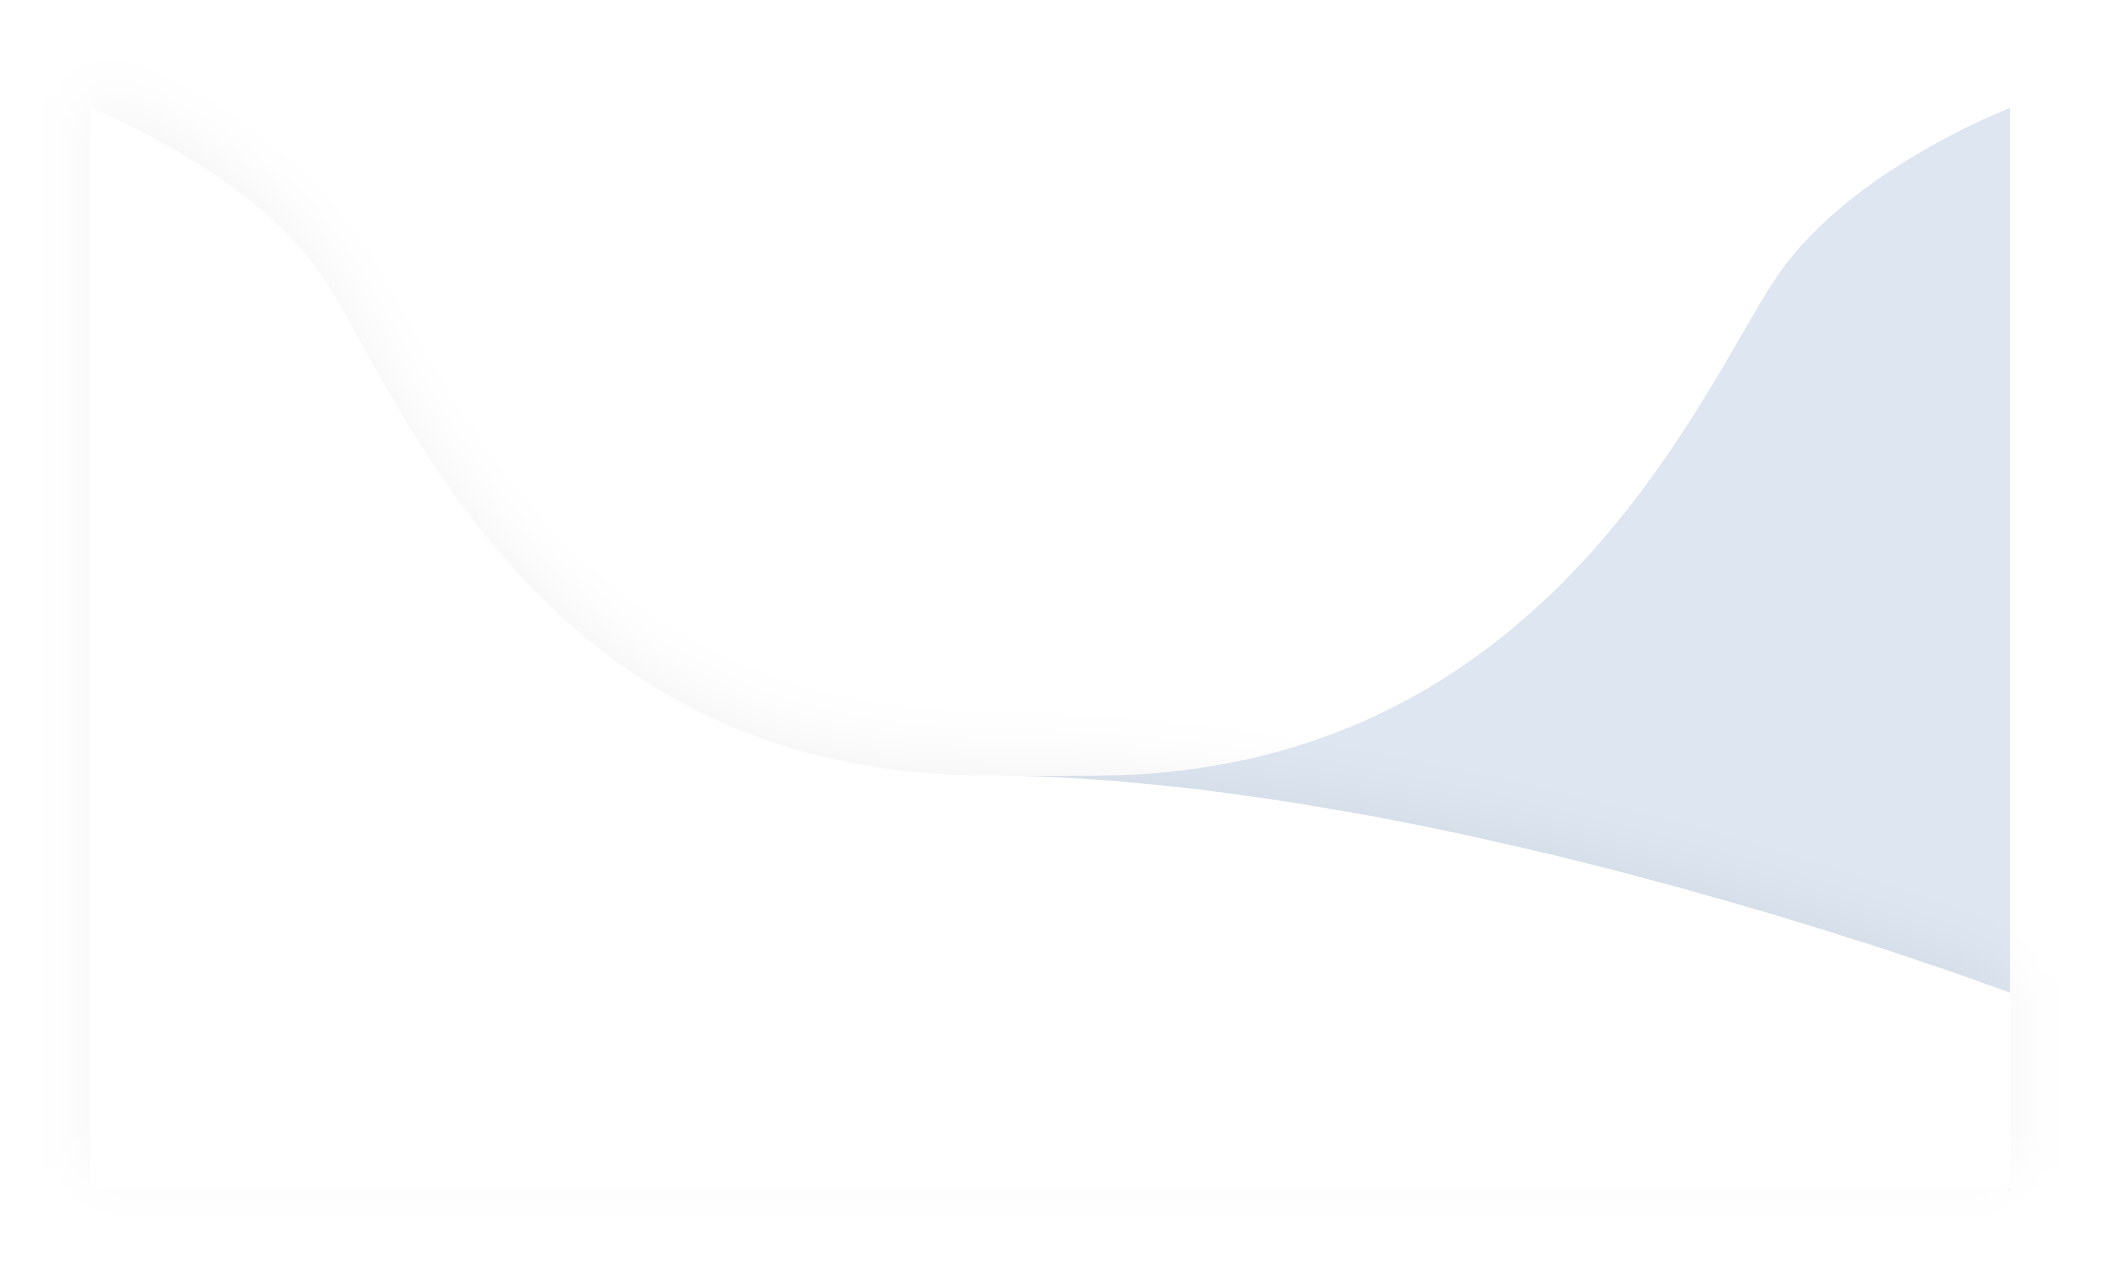
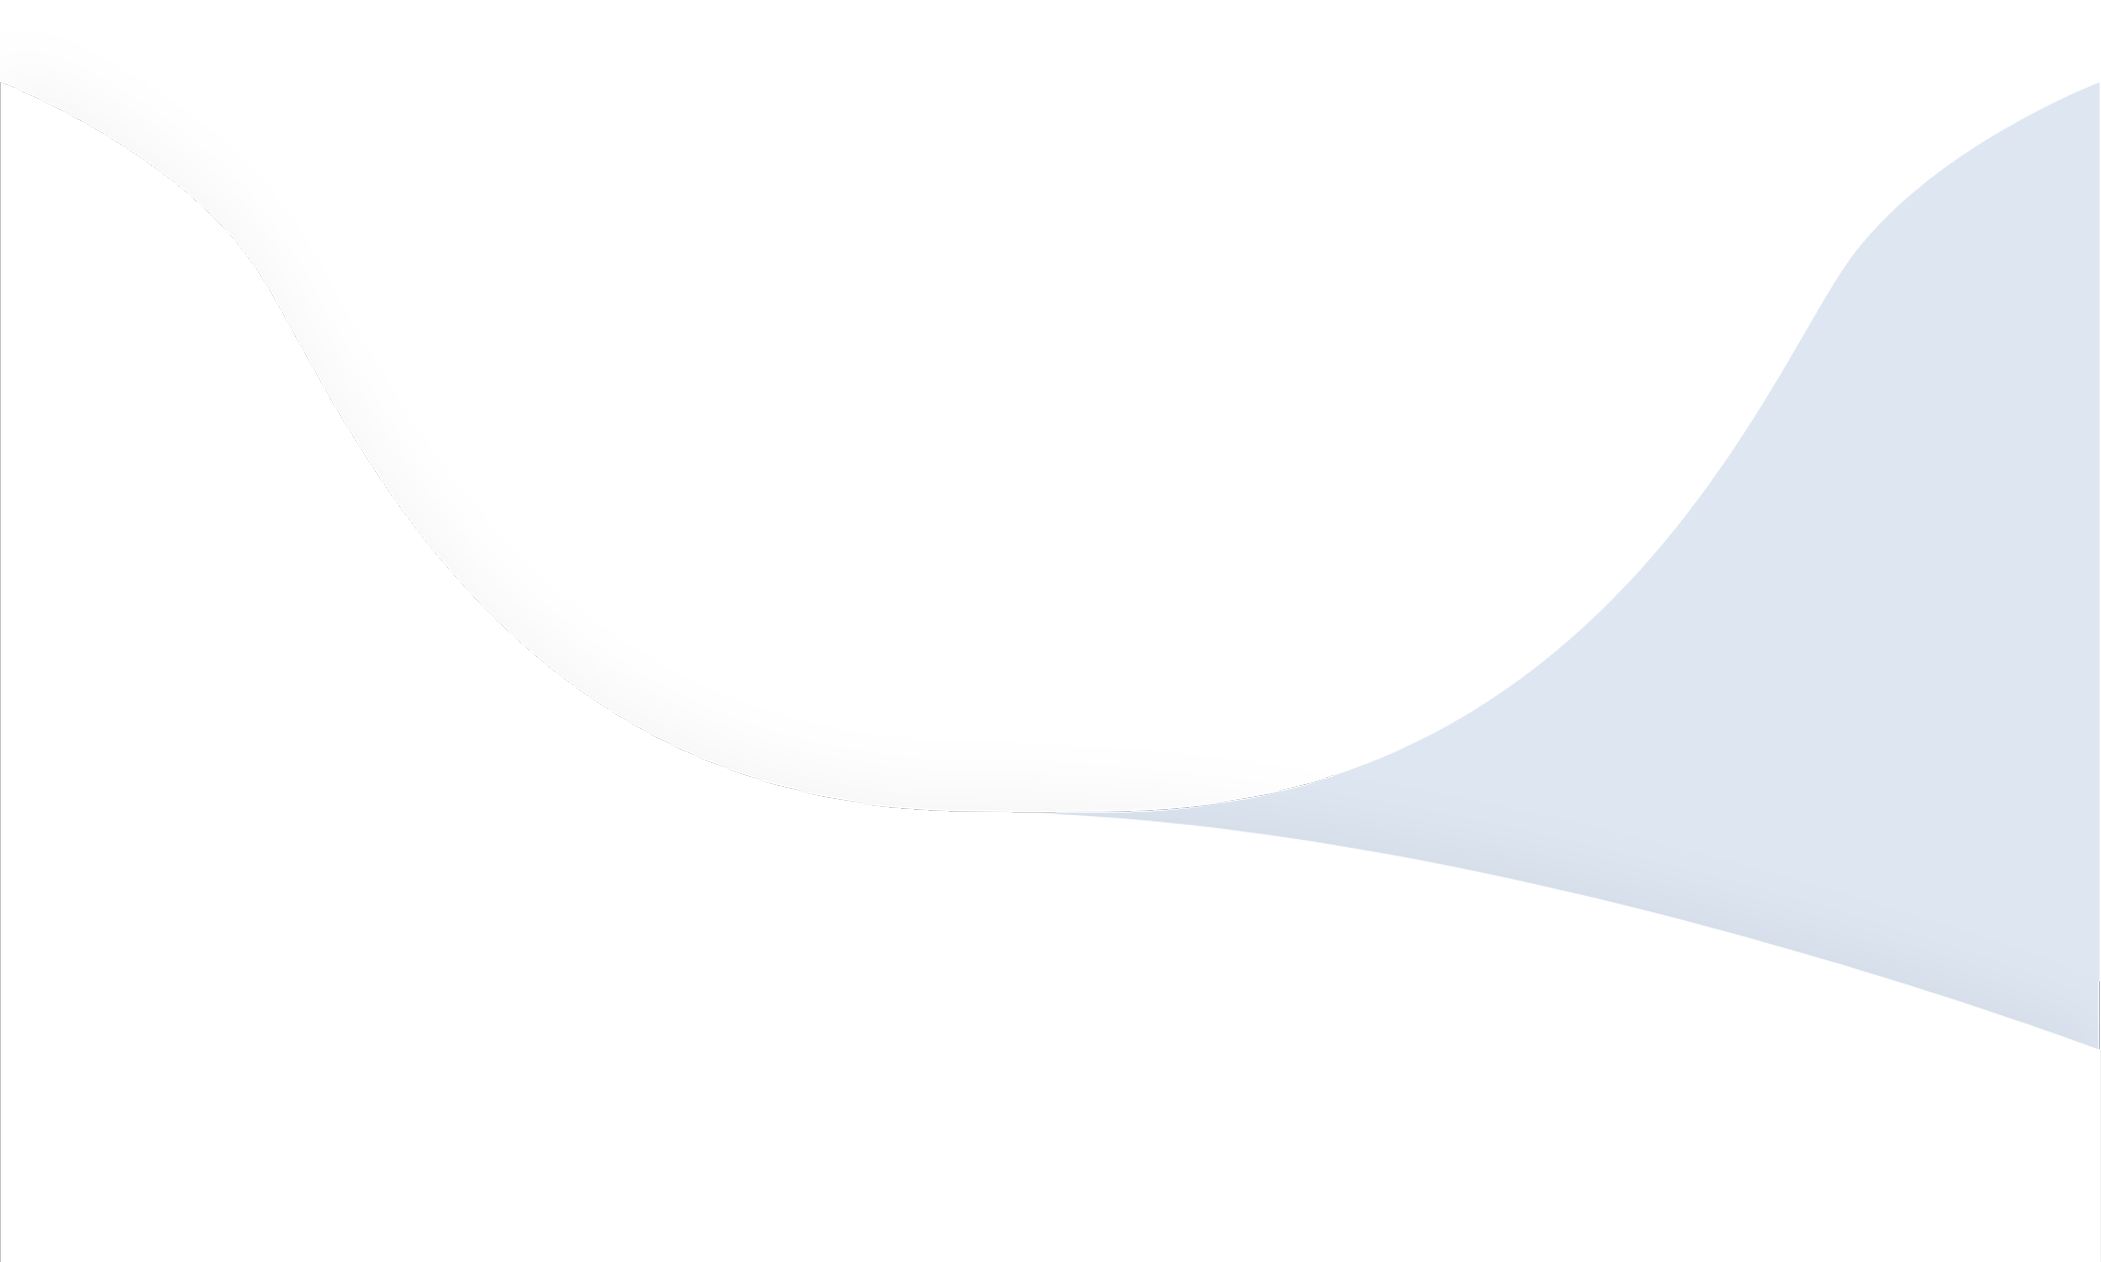
updated path

Changed region(s): [[0.5259, 0.0618, 1.0, 0.8344]]

diff --git a/css/master.css b/css/master.css
@@ -1,6 +1,7 @@
 * {
   padding: 0;
   margin: 0;
+  box-sizing: border-box;
 }
 
 #container {
@@ -22,6 +23,9 @@ h1 {
 #home {
   background-image: linear-gradient(#374993, #3786B6);
   overflow-x: hidden;
+  position: relative;
+  width: 100%;
+  overflow: hidden; /* Hide the content that exceeds the section bounds */
 }
 
 .home-text{
@@ -37,10 +41,11 @@ h1 {
   margin-top: 20px;
 }
 
-.hero-path {
+#hero-path {
   position: absolute;
-  top: -20px;
+  top: 0;
   left: 0;
+  float: inherit;
   width: 100%;
 }
 

diff --git a/index.html b/index.html
@@ -18,9 +18,9 @@
 	<div id="container">
 
 		<section id="home">
+			<img src="assets/bgImg.png" width="100%" id="bg-img" alt="background Image">
+			<img src="assets/hero-path.png" width="100%" id="hero-path" alt="path">	
 
-			<img src="assets\bgImg.png" width="100%" id="bg-img" alt="background Image">
-			<img src="assets\hero-path.png" class="hero-path">
 
 			<div class="home-text">
 				<h1>AI-generated</h1>
